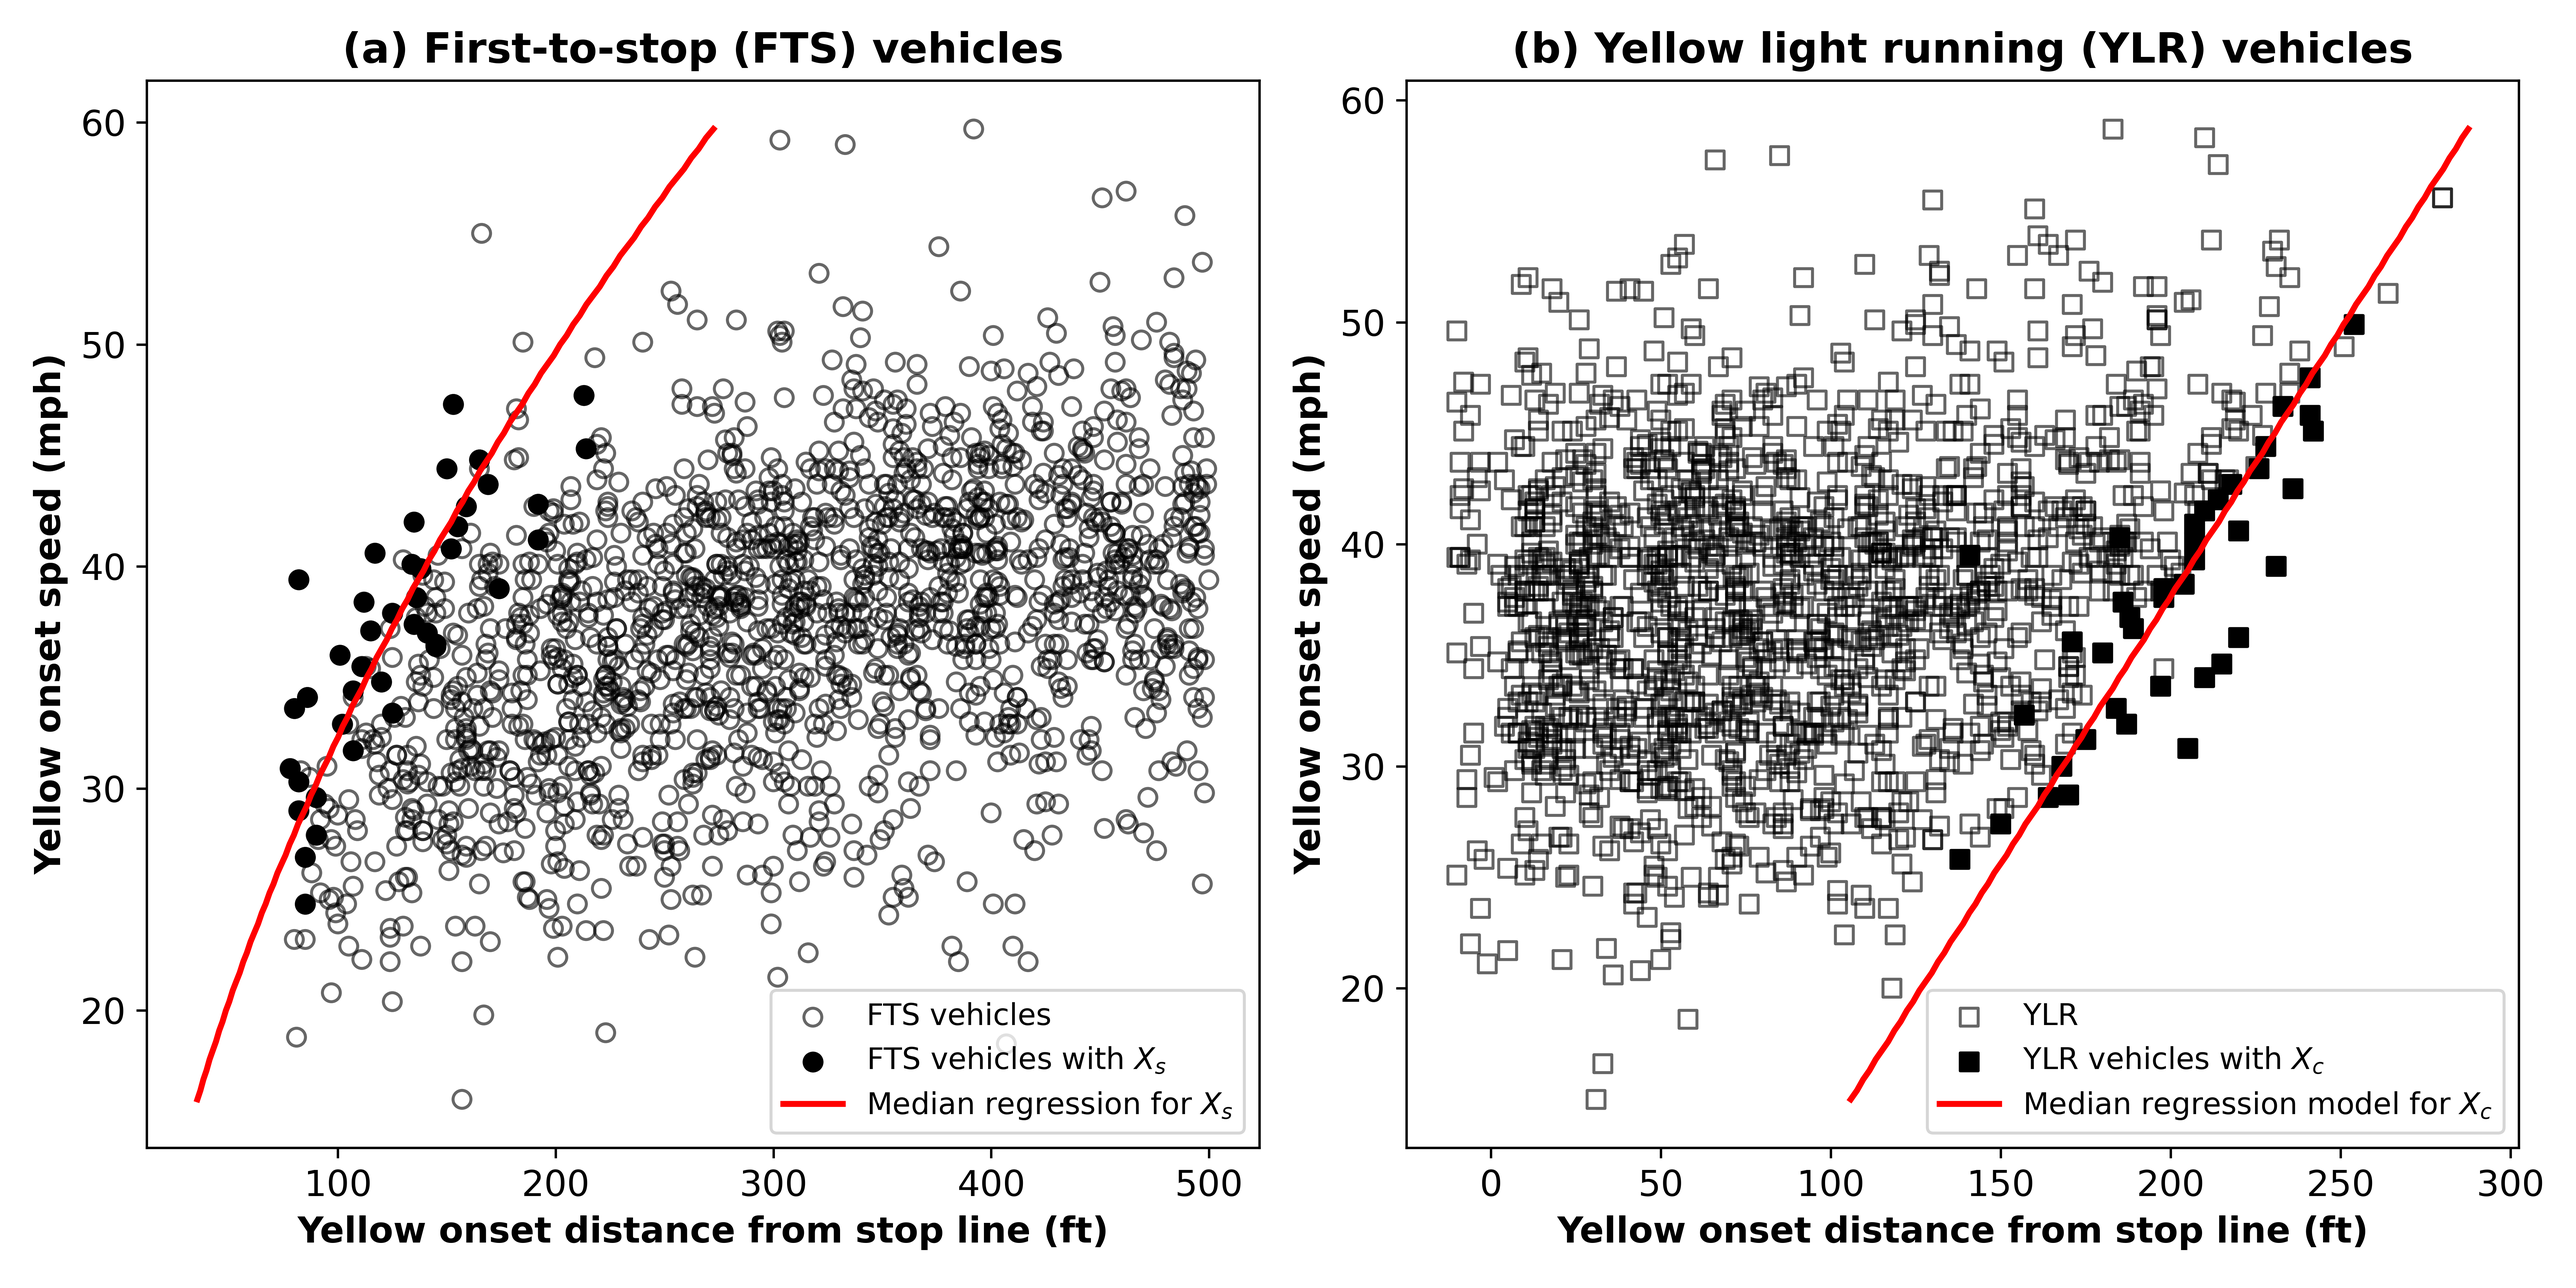
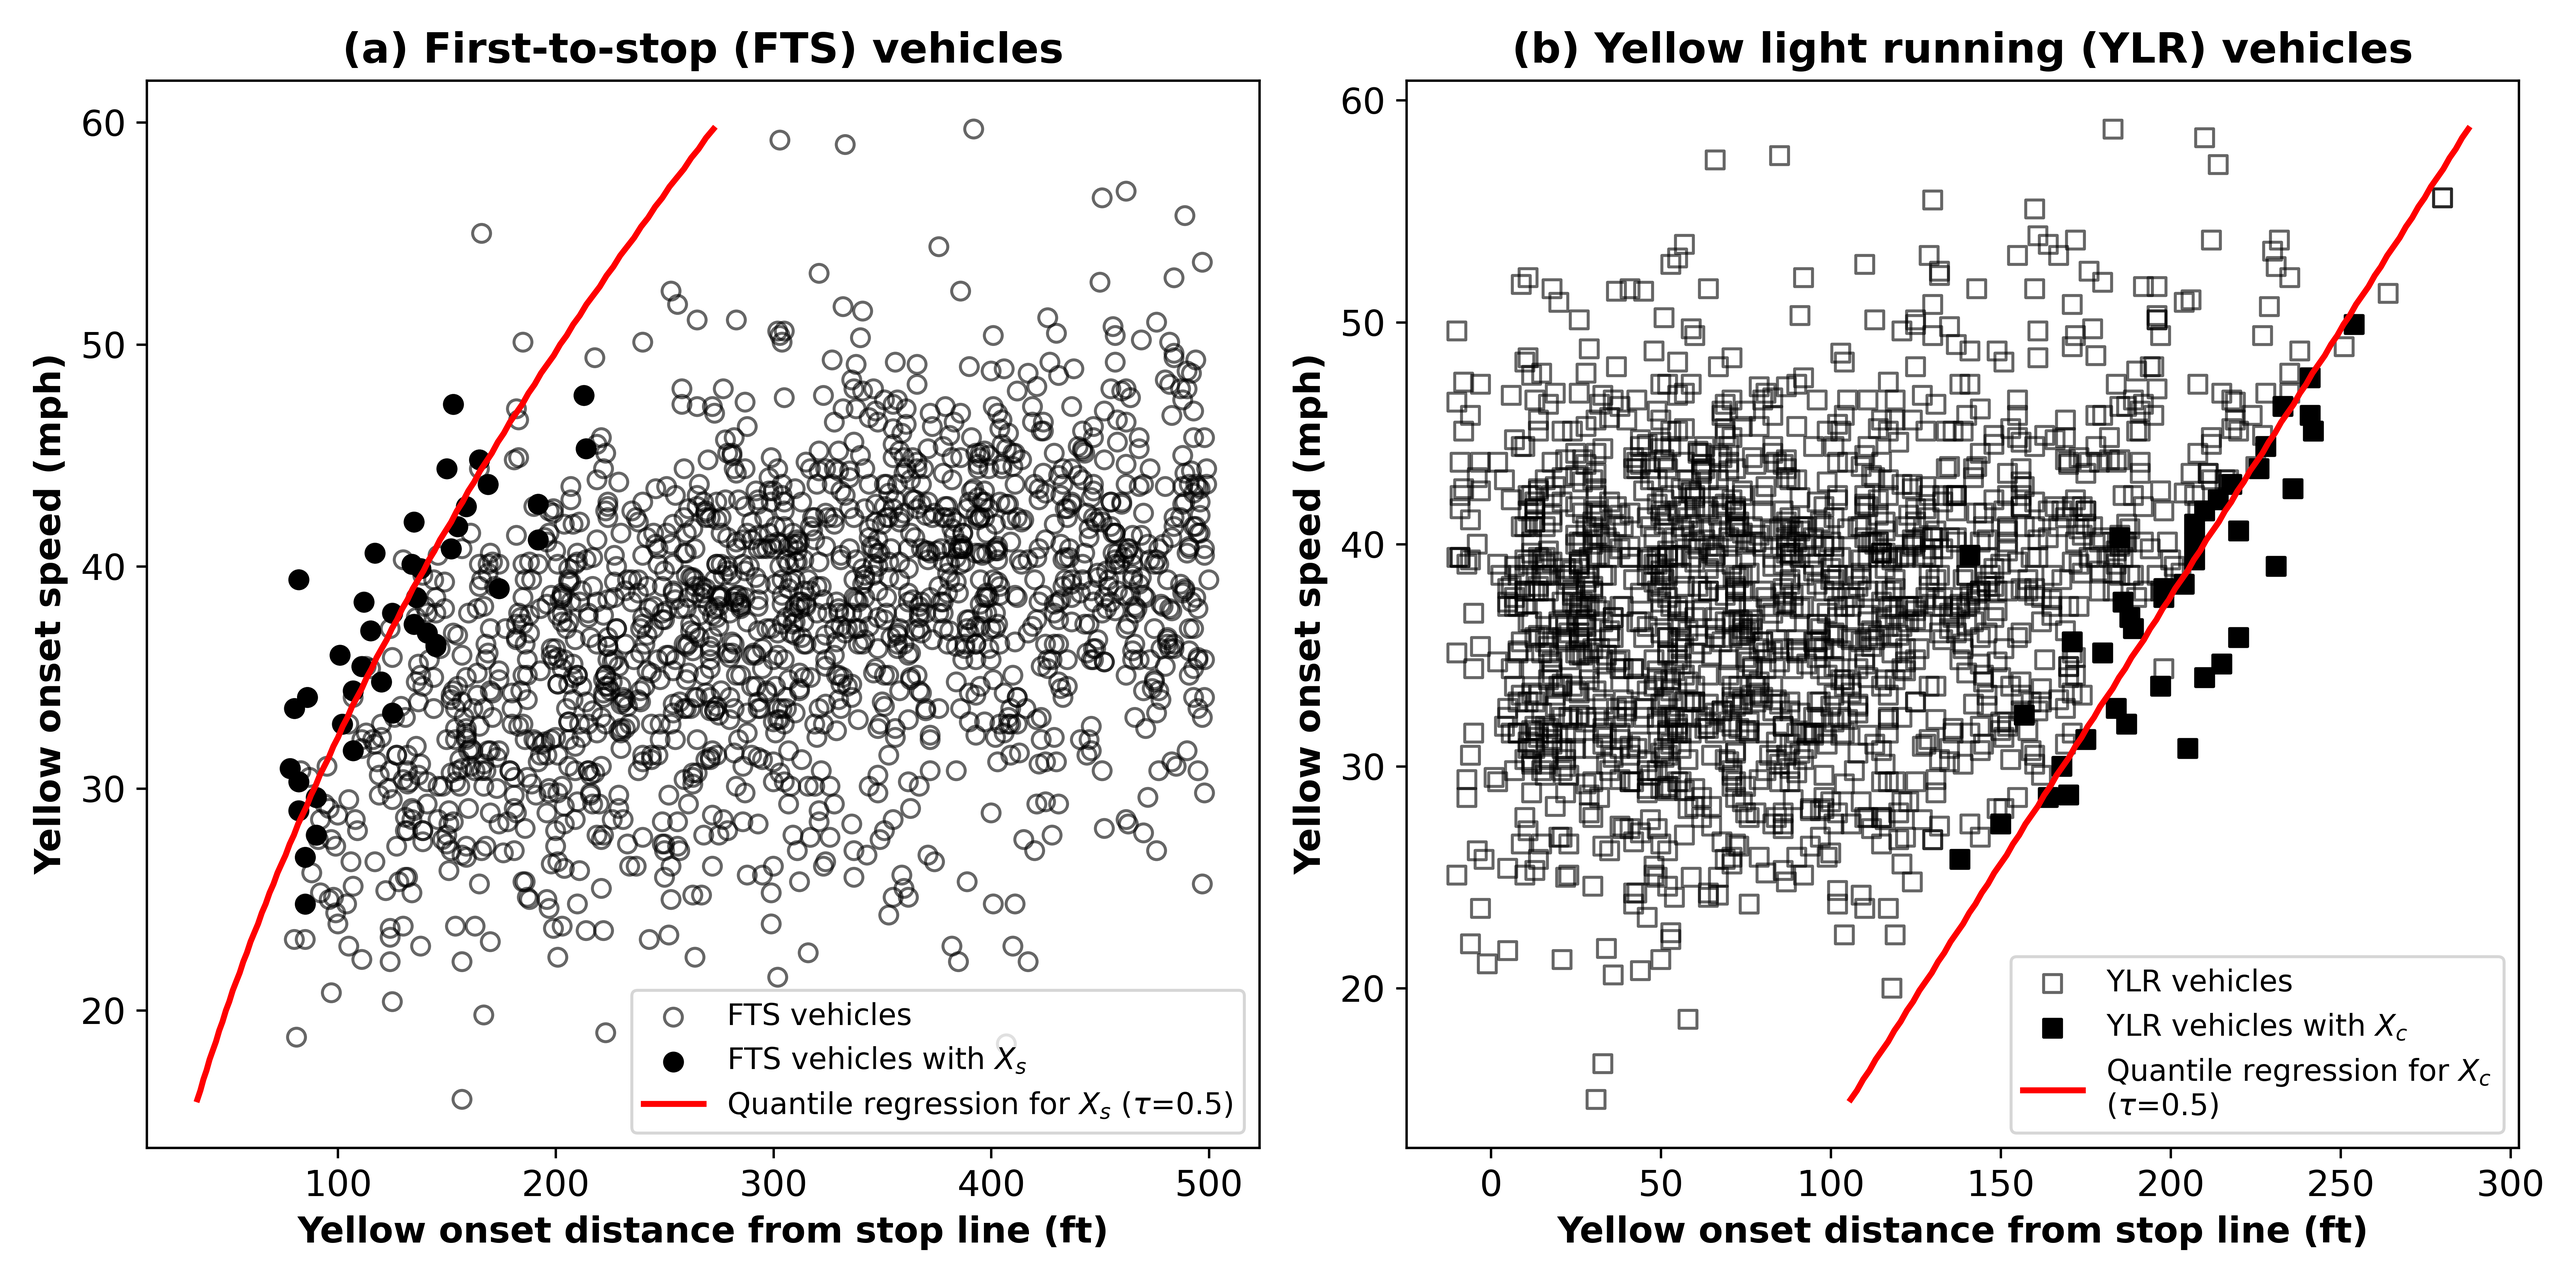
Updated quantile regression plot

Changed region(s): [[0.75, 0.7467, 0.9688, 0.8711], [0.25, 0.7778, 0.4688, 0.8711]]

diff --git a/script/quantile_models_MSD_MCD.py b/script/quantile_models_MSD_MCD.py
@@ -276,16 +276,16 @@ fig, (ax1, ax2) = plt.subplots(1, 2, figsize = (12, 6))
 
 ax1.scatter(FTS.Xi, FTS.speed, color = 'black', marker = 'o', facecolors = 'none', alpha = 0.6, label = 'FTS vehicles')
 ax1.scatter(plot_Xs.Xi, plot_Xs.speed, color = 'black', marker = 'o', label = 'FTS vehicles with $X_s$')
-ax1.plot(X_pred_Xs, y_val_Xs, color = 'red', linewidth = 2, label = 'Median regression for $X_s$')
+ax1.plot(X_pred_Xs, y_val_Xs, color = 'red', linewidth = 2, label = 'Quantile regression for $X_s$ ($τ$=0.5)')
 ax1.set_title('(a) First-to-stop (FTS) vehicles', fontsize = 14, fontweight = 'bold')
 ax1.set_xlabel('Yellow onset distance from stop line (ft)', fontsize = 12, fontweight = 'bold')
 ax1.set_ylabel('Yellow onset speed (mph)', fontsize = 12, fontweight = 'bold')
 ax1.tick_params(axis = 'both', which = 'major', labelsize = 12)
 ax1.legend(loc = 'lower right')
 
-ax2.scatter(YLR.Xi, YLR.speed, color = 'black', marker = 's', facecolors = 'none', alpha = 0.6, label = 'YLR')
+ax2.scatter(YLR.Xi, YLR.speed, color = 'black', marker = 's', facecolors = 'none', alpha = 0.6, label = 'YLR vehicles')
 ax2.scatter(plot_Xc.Xi, plot_Xc.speed, color = 'black', marker = 's', label = 'YLR vehicles with $X_c$')
-ax2.plot(X_pred_Xc, y_val_Xc, color = 'red', linewidth = 2, label = 'Median regression model for $X_c$')
+ax2.plot(X_pred_Xc, y_val_Xc, color = 'red', linewidth = 2, label = 'Quantile regression for $X_c$ \n($τ$=0.5)')
 ax2.set_title('(b) Yellow light running (YLR) vehicles', fontsize = 14, fontweight = 'bold')
 ax2.set_xlabel('Yellow onset distance from stop line (ft)', fontsize = 12, fontweight = 'bold')
 ax2.set_ylabel('Yellow onset speed (mph)', fontsize = 12, fontweight = 'bold')
